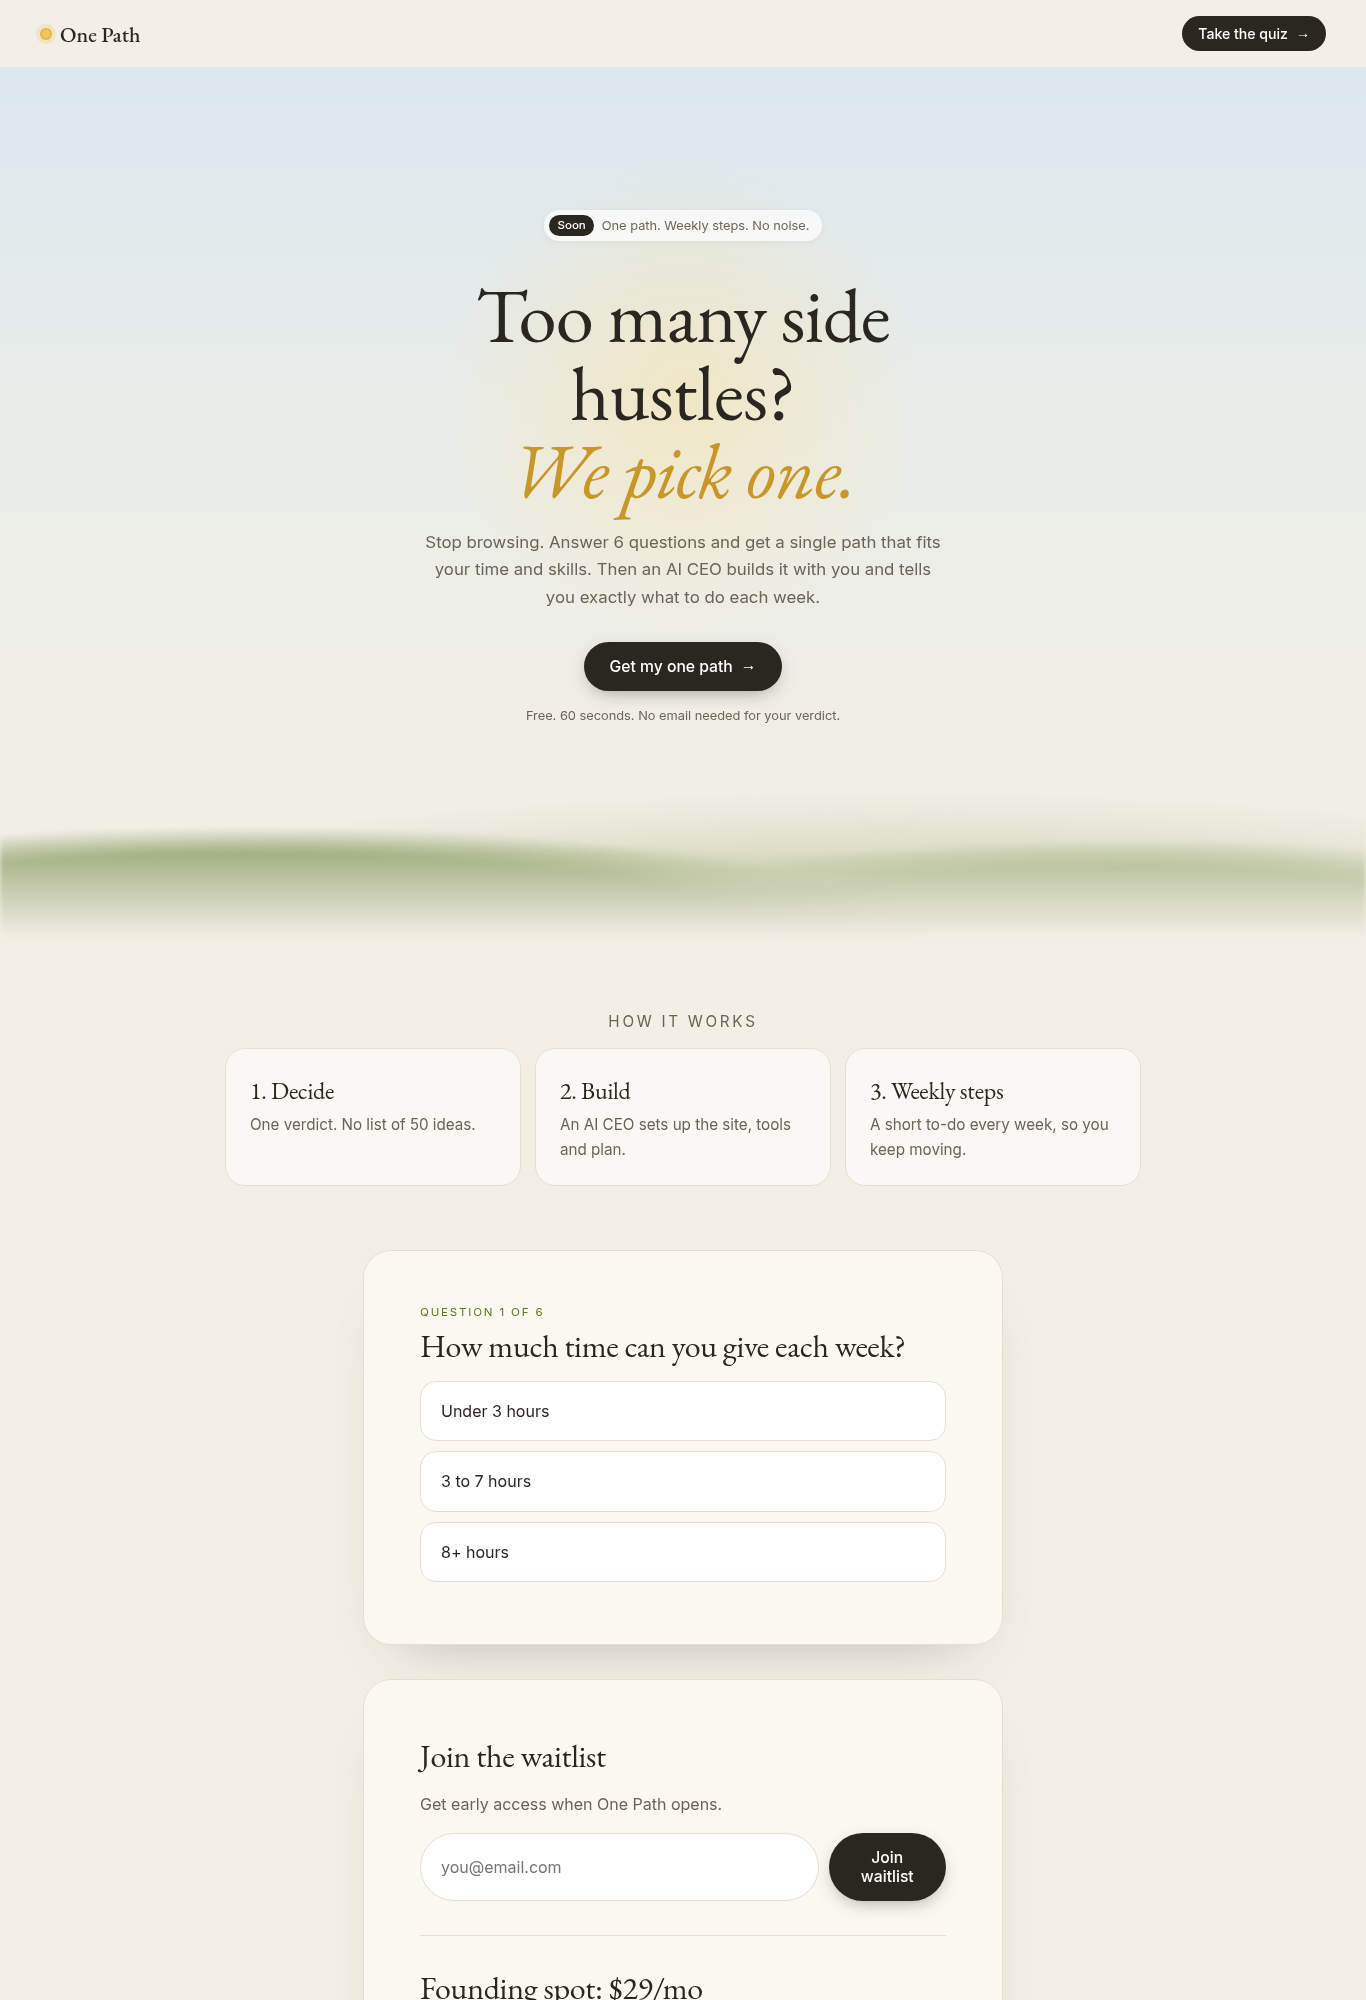
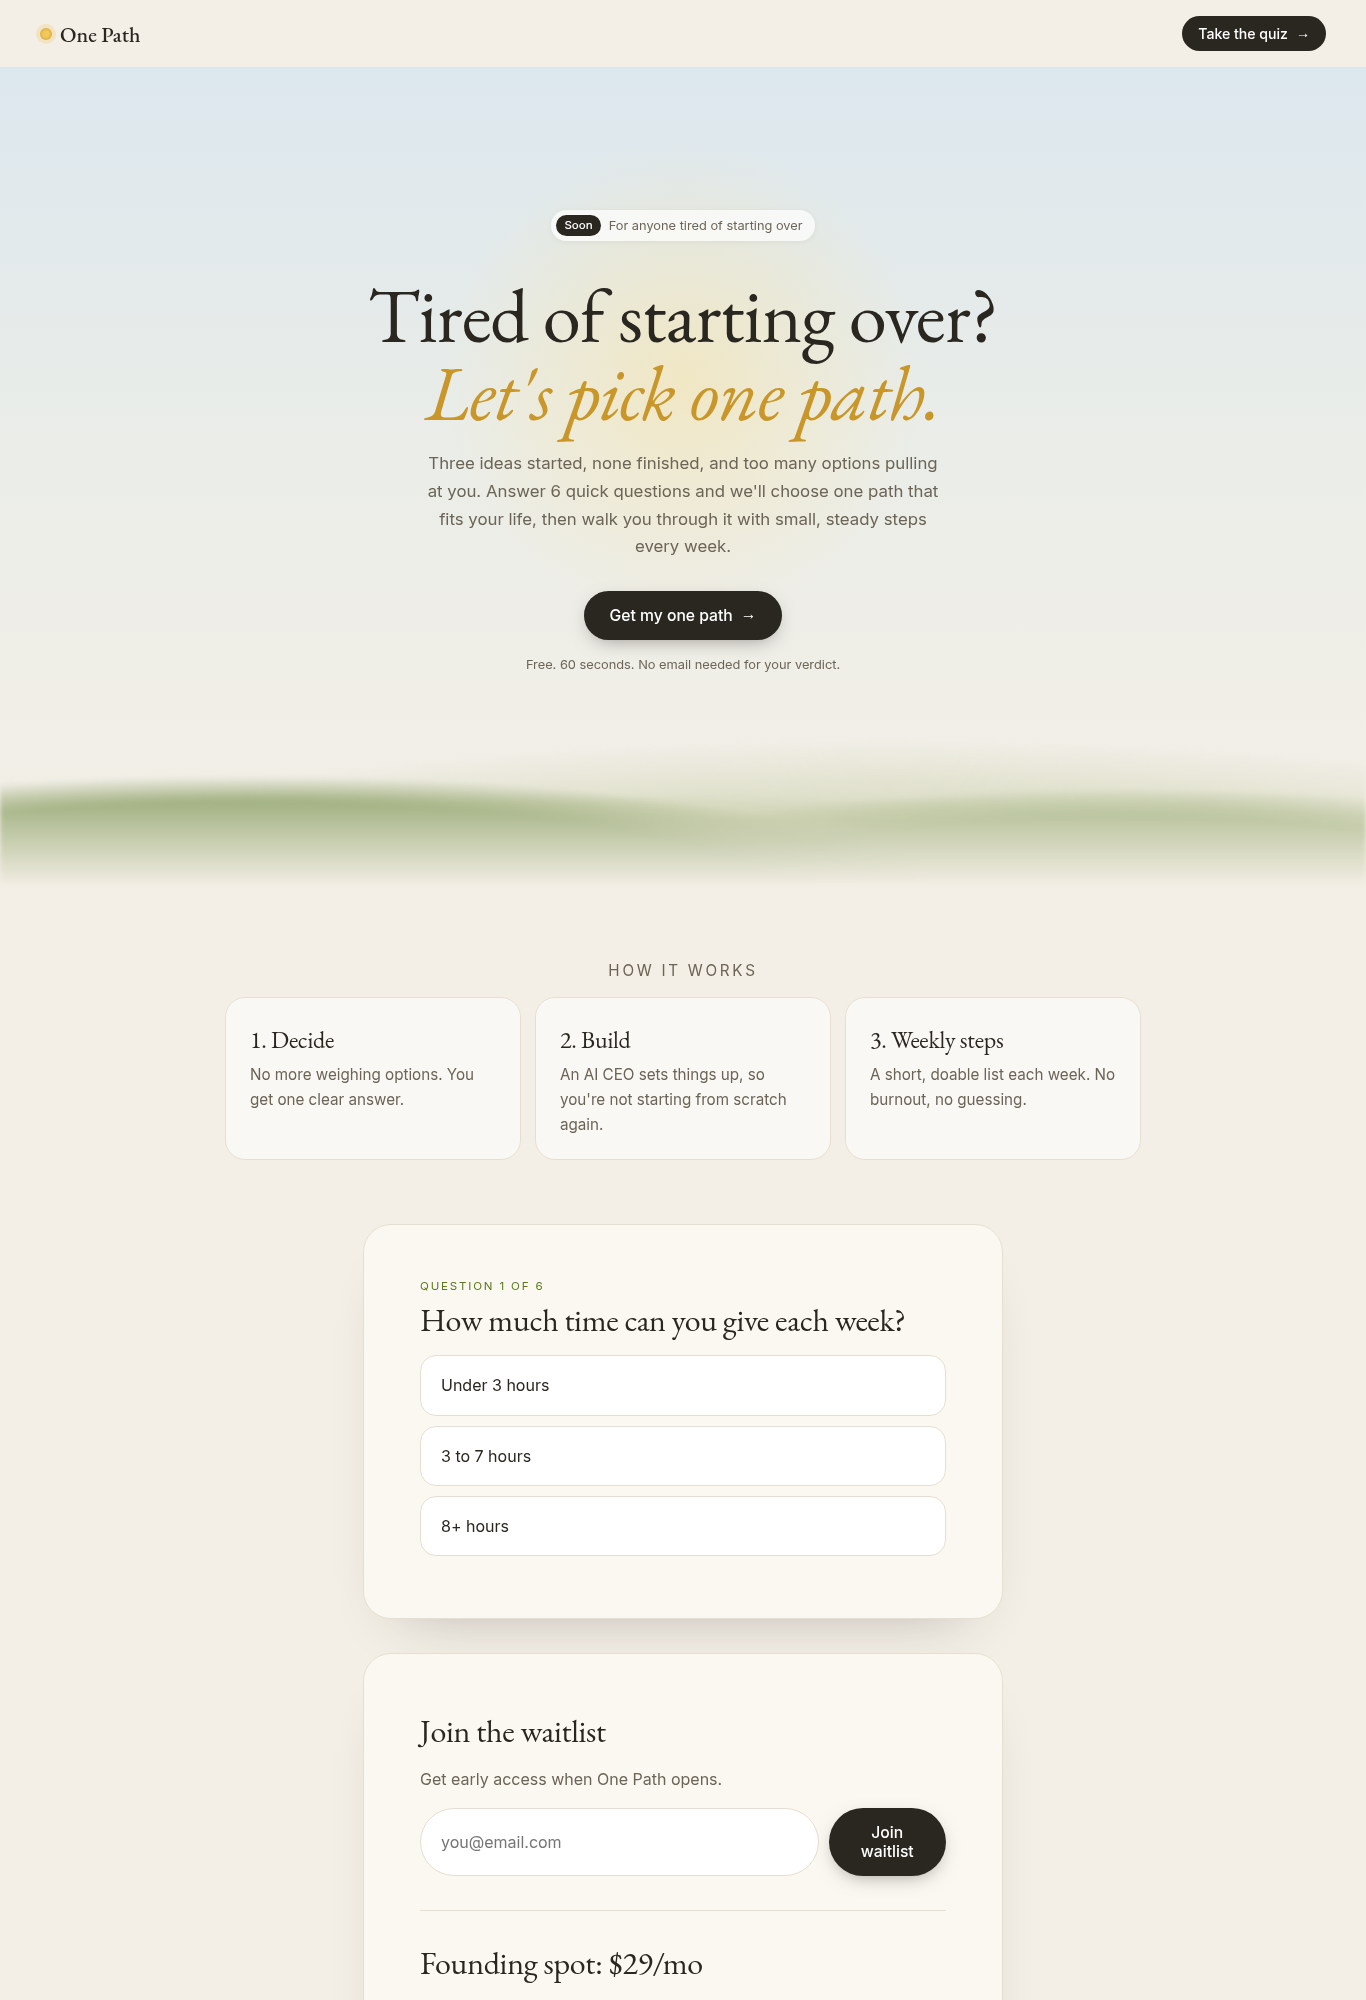
Hero copy: speak to burnout and starting over

diff --git a/index.html b/index.html
@@ -11,16 +11,16 @@
 <header class="top"><span class="logo"><i></i>One Path</span><a href="#quiz" class="pill">Take the quiz <span>→</span></a></header>
 <main>
 <section class="hero"><div class="hills" aria-hidden="true"></div><div class="wrap fade">
-  <p class="tag"><b>Soon</b> One path. Weekly steps. No noise.</p>
-  <h1>Too many side hustles?<br><em>We pick one.</em></h1>
-  <p class="sub">Stop browsing. Answer 6 questions and get a single path that fits your time and skills. Then an AI CEO builds it with you and tells you exactly what to do each week.</p>
+  <p class="tag"><b>Soon</b> For anyone tired of starting over</p>
+  <h1>Tired of starting over?<br><em>Let's pick one path.</em></h1>
+  <p class="sub">Three ideas started, none finished, and too many options pulling at you. Answer 6 quick questions and we'll choose one path that fits your life, then walk you through it with small, steady steps every week.</p>
   <a href="#quiz" class="btn">Get my one path <span>→</span></a>
   <p class="fine">Free. 60 seconds. No email needed for your verdict.</p>
 </div></section>
 <section class="wrap how fade"><p class="eyebrow">How it works</p>
-  <div><h3>1. Decide</h3><p>One verdict. No list of 50 ideas.</p></div>
-  <div><h3>2. Build</h3><p>An AI CEO sets up the site, tools and plan.</p></div>
-  <div><h3>3. Weekly steps</h3><p>A short to-do every week, so you keep moving.</p></div>
+  <div><h3>1. Decide</h3><p>No more weighing options. You get one clear answer.</p></div>
+  <div><h3>2. Build</h3><p>An AI CEO sets things up, so you're not starting from scratch again.</p></div>
+  <div><h3>3. Weekly steps</h3><p>A short, doable list each week. No burnout, no guessing.</p></div>
 </section>
 <section id="quiz" class="wrap card fade">
   <div id="q"></div>
